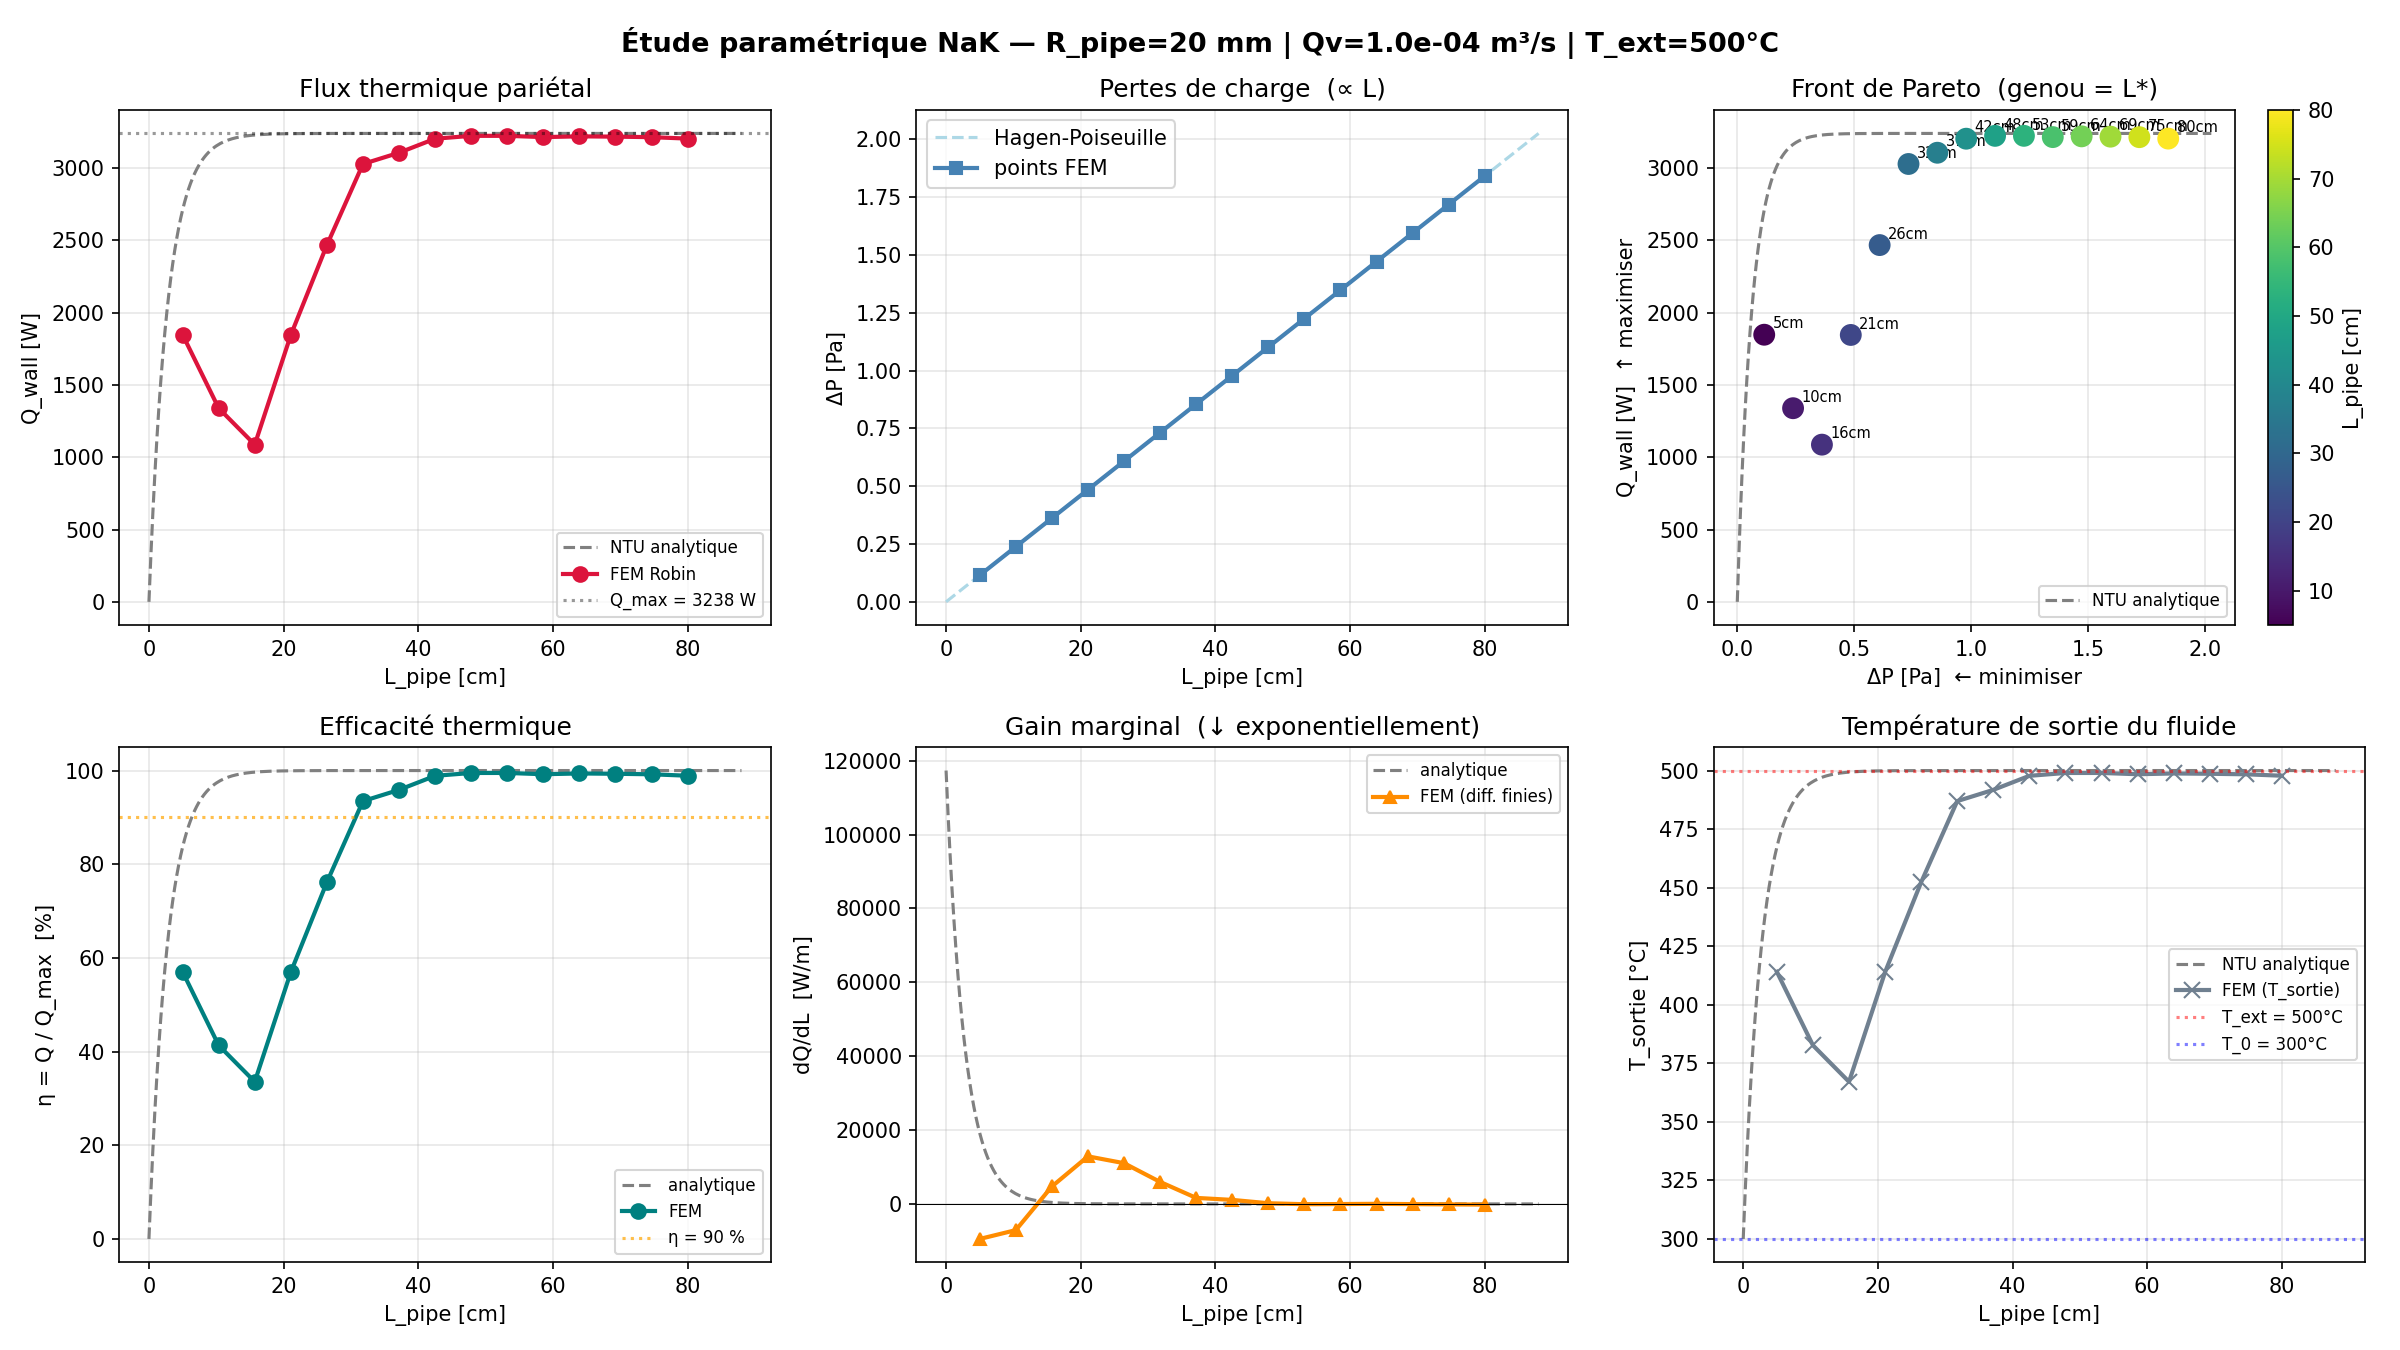
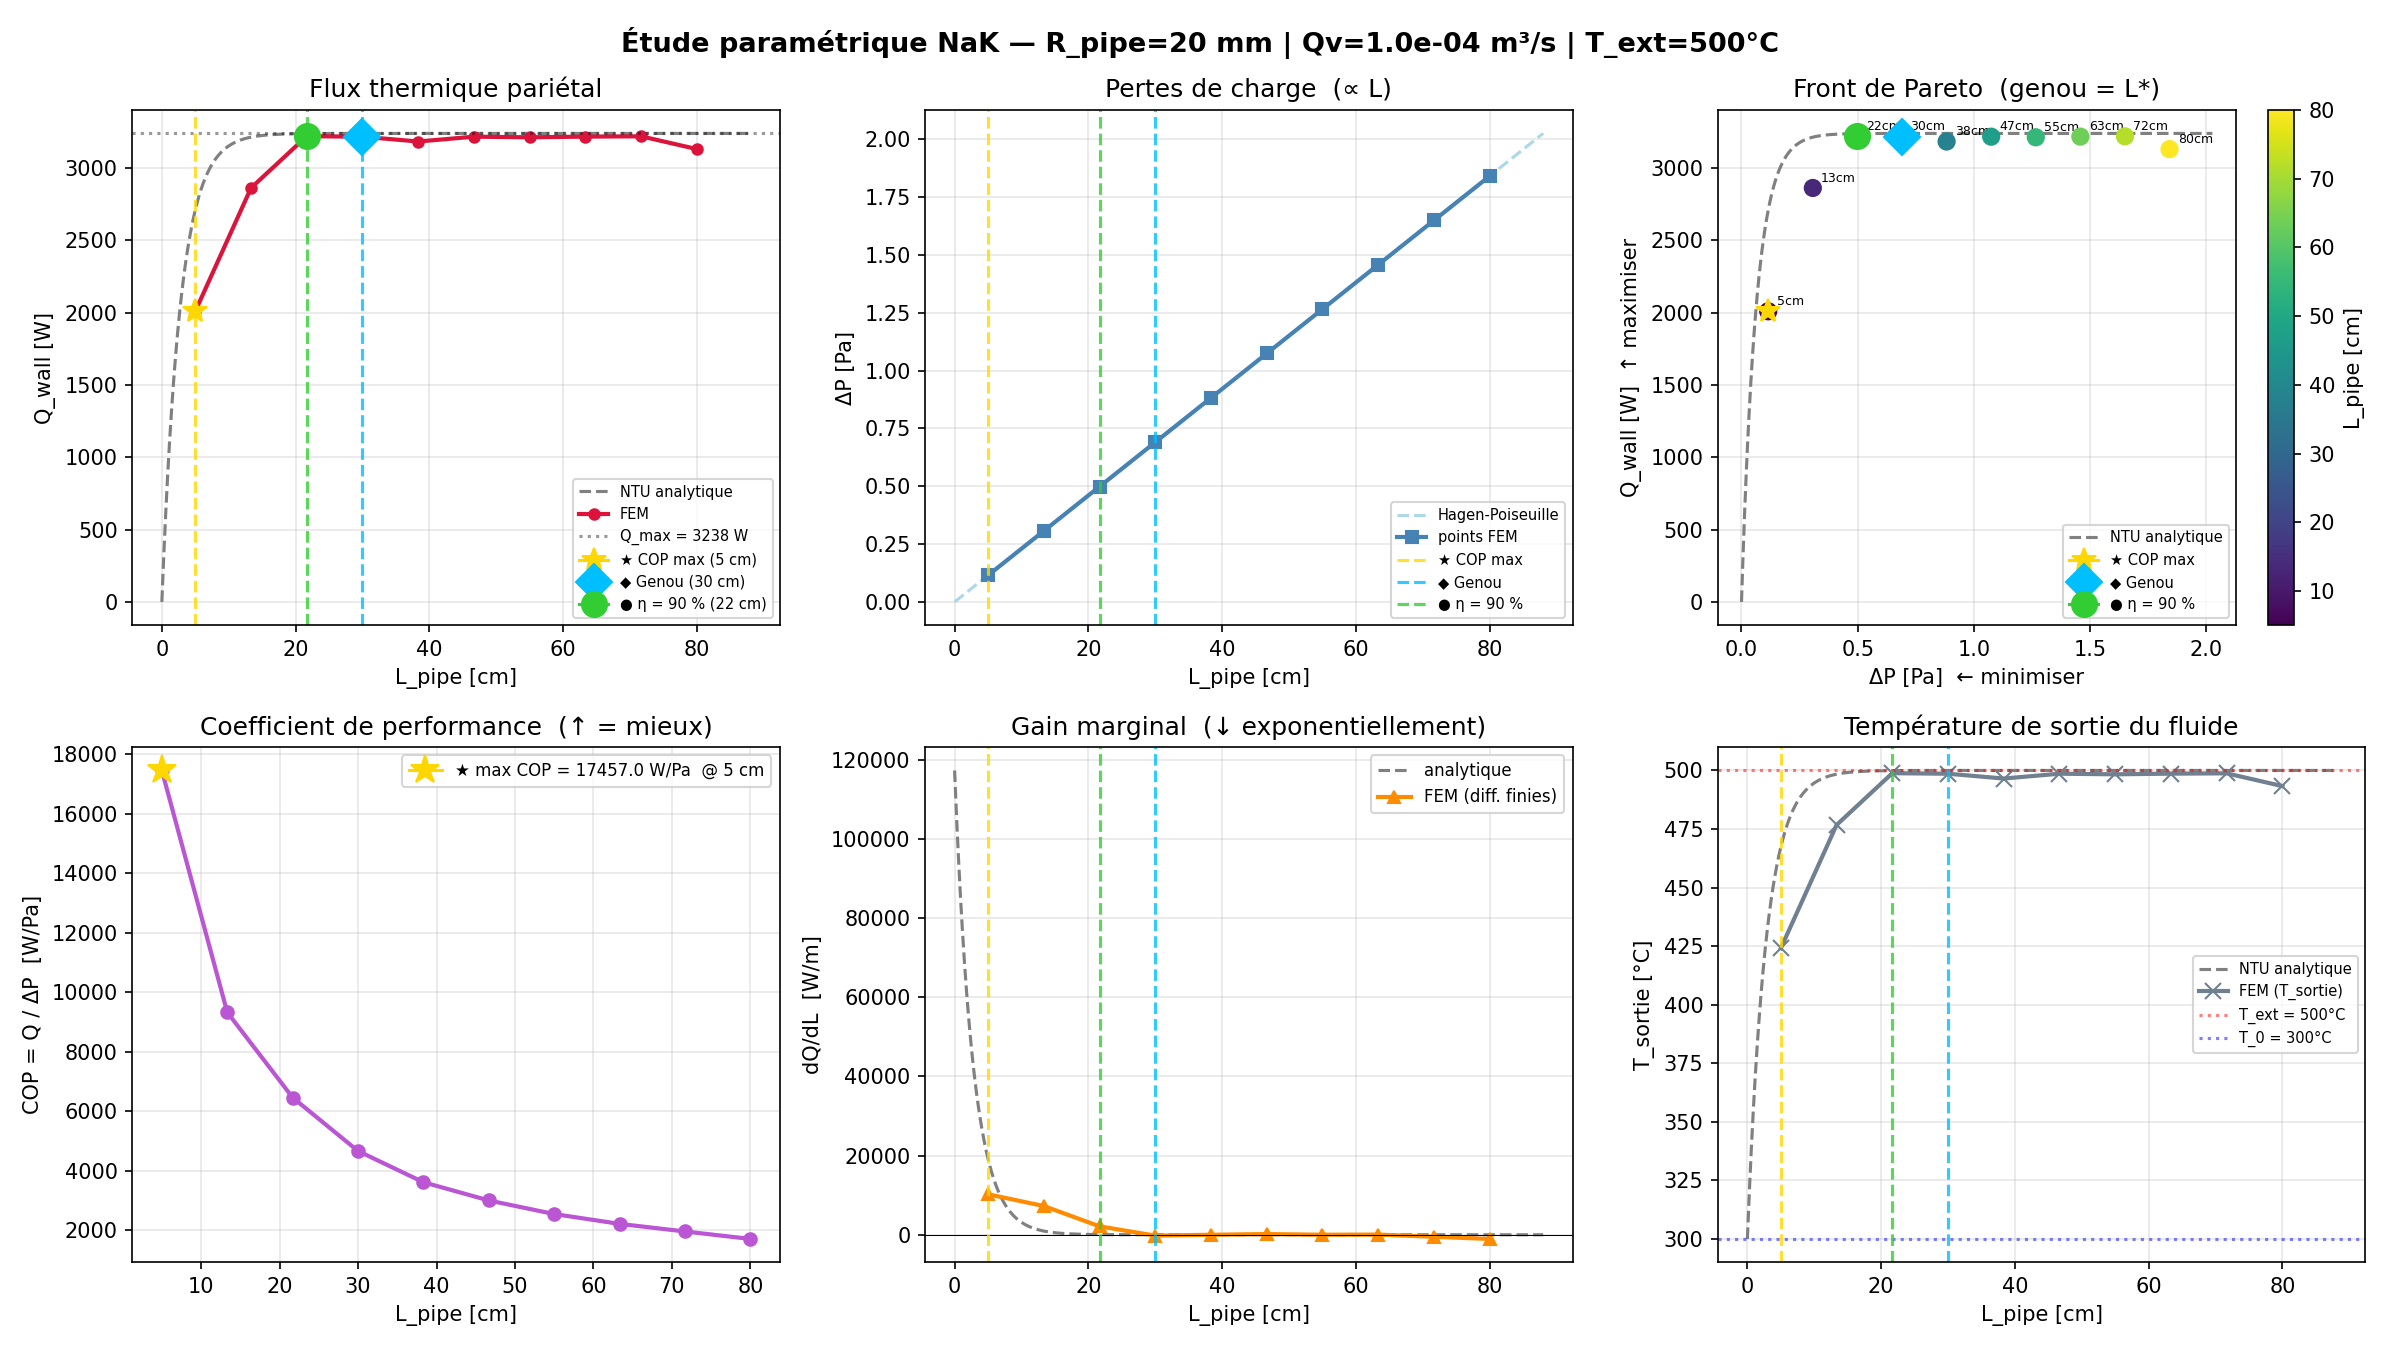
graphe etude param

diff --git a/main_diffusion_2d_reservoir.py b/main_diffusion_2d_reservoir.py
@@ -85,10 +85,6 @@ def compute_Q_wall_fem(Rb, Fb, U, wall_pipe_dofs):
         Q_wall = Fb[wall] - Rb[wall,:] @ U
                = ∫_Γ h·(T_ext − T_wall) dΓ   [W]
                  (positif = chaleur vers le fluide)
-
-    NOTE : l'ancienne formule Q = Rb·U − Fb donnait la mauvaise
-    orientation et surestimait Q pour les grands R. Cette version
-    est correcte et cohérente avec la formulation faible.
     """
     Rb_csr  = Rb.tocsr() if hasattr(Rb, 'tocsr') else Rb
     q_nodal = Fb[wall_pipe_dofs] - Rb_csr[wall_pipe_dofs, :].dot(U)
@@ -274,8 +270,6 @@ def parametric_study(L_pipe_values, args, T0, T_ext, Qv, dP_max=500.0):
     """
     Étude paramétrique sur L_pipe (longueur du tube), R_pipe fixé.
 
-    Pourquoi L_pipe est le bon paramètre
-    ----------------------------------------
     Q_wall = ṁ·cp·(T_ext − T0)·(1 − exp(−NTU))   avec  NTU = h·2πR·L / (ṁ·cp)
 
       - Pour L petit  : NTU ≪ 1 → Q ≈ h·A·(T_ext−T0)  croît quasi linéairement avec L
@@ -347,50 +341,103 @@ def parametric_study(L_pipe_values, args, T0, T_ext, Qv, dP_max=500.0):
     return results
 
 
+def find_optimal_L(L, Q, dP, Q_max, results):
+    """
+    Trouve L* selon trois critères complémentaires :
+
+    1. COP = Q / ΔP  [W/Pa]
+       Rapport chaleur transférée / coût de pompage.
+       Maximiser le COP donne le meilleur compromis énergétique.
+
+    2. Genou de Pareto (courbure maximale sur la courbe Q vs ΔP)
+       Le genou est le point où la courbe Q(ΔP) tourne le plus fort,
+       i.e. où le gain en Q par unité de ΔP supplémentaire chute le plus.
+       Méthode : on normalise Q et ΔP dans [0,1] puis on calcule la
+       courbure κ = |Q''| / (1 + Q'²)^(3/2) via différences finies.
+
+    3. Seuil d'efficacité η = 90 %
+       L minimal tel que Q ≥ 0.9 · Q_max.
+       Critère d'ingénierie simple : on accepte 10 % de perte thermique.
+
+    Retourne un dict avec les indices et valeurs de L pour chaque critère.
+    """
+    COP = Q / dP   # W/Pa
+
+    # --- Critère 1 : max COP ---
+    i_cop = int(np.argmax(COP))
+
+    # --- Critère 2 : genou de Pareto (courbure max sur Q vs ΔP normalisé) ---
+    # Normalisation dans [0,1]
+    dP_n = (dP - dP.min()) / (dP.max() - dP.min() + 1e-12)
+    Q_n  = (Q  - Q.min())  / (Q.max()  - Q.min()  + 1e-12)
+    # Différences finies pour dQ_n/ddP_n et d²Q_n/ddP_n²
+    if len(L) >= 3:
+        dQdP   = np.gradient(Q_n, dP_n)
+        d2QdP2 = np.gradient(dQdP, dP_n)
+        kappa  = np.abs(d2QdP2) / (1.0 + dQdP**2)**1.5
+        # Le genou est le point de courbure max (excluant les bords)
+        i_knee = int(np.argmax(kappa[1:-1])) + 1
+    else:
+        i_knee = i_cop   # fallback si pas assez de points
+
+    # --- Critère 3 : seuil η = 90 % ---
+    eta_target = 0.90
+    i_eta = None
+    for j, q in enumerate(Q):
+        if q >= eta_target * Q_max:
+            i_eta = j
+            break
+    if i_eta is None:
+        i_eta = int(np.argmax(Q))   # fallback : max Q si seuil jamais atteint
+
+    return dict(
+        i_cop  = i_cop,  L_cop  = L[i_cop],  Q_cop  = Q[i_cop],  dP_cop  = dP[i_cop],
+        i_knee = i_knee, L_knee = L[i_knee], Q_knee = Q[i_knee], dP_knee = dP[i_knee],
+        i_eta  = i_eta,  L_eta  = L[i_eta],  Q_eta  = Q[i_eta],  dP_eta  = dP[i_eta],
+        COP    = COP,
+    )
+
+
+
 def plot_parametric_results(results, T0, T_ext, args, Qv):
     """
-    Trace les graphes de l'étude paramétrique en L_pipe et identifie L*.
-
-    Affiche :
-      - Q_wall vs L_pipe  (FEM + courbe analytique NTU)
-      - ΔP vs L_pipe      (linéaire — Hagen-Poiseuille)
-      - Front de Pareto   Q_wall / ΔP  (genou = L*)
-      - Efficacité η = Q/Q_max vs L
-      - ΔQ/ΔL (gain marginal) vs L  → s'annule au genou
-      - T_wall_mean vs L
+    Trace les graphes de l'étude paramétrique en L_pipe.
+    Identifie L* selon trois critères : COP max, genou de Pareto, η = 90 %.
     """
     if not results:
         print("Aucun résultat à tracer.")
         return
 
     R_pipe = args.R_pipe
-    L  = np.array([r["L_pipe"]      for r in results])        # m
-    Q  = np.array([r["Q_wall"]      for r in results])         # W
-    dP = np.array([r["dP"]          for r in results])         # Pa
-    h  = np.array([r["h"]           for r in results])         # W/m²K
-    Tw = np.array([r["T_wall_mean"] for r in results]) - 273.15  # °C
-    Ts = np.array([r["T_sortie"]    for r in results]) - 273.15  # °C
+    L  = np.array([r["L_pipe"]      for r in results])
+    Q  = np.array([r["Q_wall"]      for r in results])
+    dP = np.array([r["dP"]          for r in results])
+    h  = np.array([r["h"]           for r in results])
+    Ts = np.array([r["T_sortie"]    for r in results]) - 273.15
 
     rho_r, cp_r, k_r, mu_r, nu_r, Pr_r = nak_properties(0.5 * (T0 + T_ext))
-    m_dot   = rho_r * Qv
-    Q_max   = m_dot * cp_r * (T_ext - T0)  # saturation thermique [W]
+    m_dot = rho_r * Qv
+    Q_max = m_dot * cp_r * (T_ext - T0)
 
-    # h évalué à T0 (entrée) — plus représentatif pour NTU car T augmente le long du tube
     h_ref, *_ = compute_h_robin_from_Qv(T0, R_pipe, Qv)
 
-    # Courbe analytique NTU : Q_an(L) = Q_max · (1 − exp(−NTU(L)))
-    L_an   = np.linspace(0, L.max() * 1.1, 300)
-    NTU_an = h_ref * 2 * np.pi * R_pipe * L_an / (m_dot * cp_r)
-    Q_an   = Q_max * (1.0 - np.exp(-NTU_an))
-    dP_an  = compute_dP_hagen(R_pipe, mu_r, L_an, Qv)
-
-    # NTU aux points FEM
+    L_an    = np.linspace(0, L.max() * 1.1, 300)
+    NTU_an  = h_ref * 2 * np.pi * R_pipe * L_an / (m_dot * cp_r)
+    Q_an    = Q_max * (1.0 - np.exp(-NTU_an))
+    dP_an   = compute_dP_hagen(R_pipe, mu_r, L_an, Qv)
     NTU_fem = h_ref * 2 * np.pi * R_pipe * L / (m_dot * cp_r)
+    dQdL    = np.gradient(Q, L)
 
-    # Gain marginal dQ/dL (différences finies)
-    dQdL = np.gradient(Q, L)
+    # --- Trouver les trois L* ---
+    opt = find_optimal_L(L, Q, dP, Q_max, results)
+    COP = opt["COP"]
 
-    i_best = int(np.argmax(Q))
+    # (mpl_marker, symbol pour texte/légende)
+    opt_styles = [
+        ("COP max",  opt["i_cop"],  opt["L_cop"],  "gold",        "*",  "★"),
+        ("Genou",    opt["i_knee"], opt["L_knee"], "deepskyblue", "D",  "◆"),
+        ("η = 90 %", opt["i_eta"],  opt["L_eta"],  "limegreen",   "o",  "●"),
+    ]
 
     fig, axes = plt.subplots(2, 3, figsize=(16, 9))
     fig.suptitle(
@@ -399,42 +446,51 @@ def plot_parametric_results(results, T0, T_ext, args, Qv):
         fontsize=13, fontweight='bold'
     )
 
-    # Q_wall vs L  (FEM + analytique NTU)
+    # Q_wall vs L
     ax = axes[0, 0]
     ax.plot(L_an*100, Q_an, '--', color='gray', lw=1.5, label='NTU analytique')
-    ax.plot(L*100, Q, 'o-', color='crimson', lw=2, ms=7, label='FEM Robin')
+    ax.plot(L*100, Q, 'o-', color='crimson', lw=2, ms=5, label='FEM')
     ax.axhline(Q_max, ls=':', color='black', alpha=0.4, label=f'Q_max = {Q_max:.0f} W')
+    for label, idx, L_opt, color, mpl_marker, sym in opt_styles:
+        ax.axvline(L_opt*100, ls='--', color=color, alpha=0.8, lw=1.5)
+        ax.plot(L_opt*100, Q[idx], marker=mpl_marker, color=color,
+                ms=12, zorder=6, label=f'{sym} {label} ({L_opt*100:.0f} cm)')
     ax.set_xlabel("L_pipe [cm]"); ax.set_ylabel("Q_wall [W]")
     ax.set_title("Flux thermique pariétal")
-    ax.legend(fontsize=8); ax.grid(True, alpha=0.3)
+    ax.legend(fontsize=7); ax.grid(True, alpha=0.3)
 
-    # ΔP vs L  (linéaire)
+    # ΔP vs L
     ax = axes[0, 1]
     ax.plot(L_an*100, dP_an, '--', color='lightblue', lw=1.5, label='Hagen-Poiseuille')
     ax.plot(L*100, dP, 's-', color='steelblue', lw=2, ms=6, label='points FEM')
+    for label, idx, L_opt, color, mpl_marker, sym in opt_styles:
+        ax.axvline(L_opt*100, ls='--', color=color, alpha=0.8, lw=1.5, label=f'{sym} {label}')
     ax.set_xlabel("L_pipe [cm]"); ax.set_ylabel("ΔP [Pa]")
     ax.set_title("Pertes de charge  (∝ L)")
-    ax.legend(); ax.grid(True, alpha=0.3)
+    ax.legend(fontsize=7); ax.grid(True, alpha=0.3)
 
-    # Front de Pareto : Q vs ΔP  — le genou est L*
+    # Front de Pareto : Q vs ΔP
     ax = axes[0, 2]
     ax.plot(dP_an, Q_an, '--', color='gray', lw=1.5, label='NTU analytique')
-    sc = ax.scatter(dP, Q, c=L*100, cmap='viridis', s=90, zorder=5)
+    sc = ax.scatter(dP, Q, c=L*100, cmap='viridis', s=60, zorder=4)
     plt.colorbar(sc, ax=ax, label='L_pipe [cm]')
     for j in range(len(L)):
         ax.annotate(f"{L[j]*100:.0f}cm", (dP[j], Q[j]),
-                    textcoords="offset points", xytext=(4, 3), fontsize=7)
+                    textcoords="offset points", xytext=(4, 3), fontsize=6)
+    for label, idx, L_opt, color, mpl_marker, sym in opt_styles:
+        ax.plot(dP[idx], Q[idx], marker=mpl_marker, color=color, ms=12, zorder=6,
+                label=f'{sym} {label}')
     ax.set_xlabel("ΔP [Pa]  ← minimiser"); ax.set_ylabel("Q_wall [W]  ↑ maximiser")
     ax.set_title("Front de Pareto  (genou = L*)")
-    ax.legend(fontsize=8); ax.grid(True, alpha=0.3)
+    ax.legend(fontsize=7); ax.grid(True, alpha=0.3)
 
-    # Efficacité η = Q / Q_max vs L
+    # COP = Q / ΔP vs L
     ax = axes[1, 0]
-    ax.plot(L_an*100, (1-np.exp(-NTU_an))*100, '--', color='gray', lw=1.5, label='analytique')
-    ax.plot(L*100, Q/Q_max*100, 'o-', color='teal', lw=2, ms=7, label='FEM')
-    ax.axhline(90, ls=':', color='orange', alpha=0.7, label='η = 90 %')
-    ax.set_xlabel("L_pipe [cm]"); ax.set_ylabel("η = Q / Q_max  [%]")
-    ax.set_title("Efficacité thermique")
+    ax.plot(L*100, COP, 'o-', color='mediumorchid', lw=2, ms=6)
+    ax.plot(opt["L_cop"]*100, COP[opt["i_cop"]], marker='*', color='gold', ms=14, zorder=6,
+            label=f'★ max COP = {COP[opt["i_cop"]]:.1f} W/Pa  @ {opt["L_cop"]*100:.0f} cm')
+    ax.set_xlabel("L_pipe [cm]"); ax.set_ylabel("COP = Q / ΔP  [W/Pa]")
+    ax.set_title("Coefficient de performance  (↑ = mieux)")
     ax.legend(fontsize=8); ax.grid(True, alpha=0.3)
 
     # Gain marginal dQ/dL
@@ -443,13 +499,14 @@ def plot_parametric_results(results, T0, T_ext, args, Qv):
     ax.plot(L_an*100, dQdL_an, '--', color='gray', lw=1.5, label='analytique')
     ax.plot(L*100, dQdL, '^-', color='darkorange', lw=2, ms=6, label='FEM (diff. finies)')
     ax.axhline(0, color='black', lw=0.5)
+    for label, idx, L_opt, color, mpl_marker, sym in opt_styles:
+        ax.axvline(L_opt*100, ls='--', color=color, alpha=0.8, lw=1.5)
     ax.set_xlabel("L_pipe [cm]"); ax.set_ylabel("dQ/dL  [W/m]")
     ax.set_title("Gain marginal  (↓ exponentiellement)")
     ax.legend(fontsize=8); ax.grid(True, alpha=0.3)
 
-    # T_sortie vs L  (température de sortie du fluide)
+    # T_sortie vs L
     ax = axes[1, 2]
-    # Analytique : T_sortie = T_ext - (T_ext-T0)*exp(-NTU)
     T_sortie_an = (T_ext - 273.15) - (T_ext - T0) * np.exp(-NTU_an)
     ax.plot(L_an*100, T_sortie_an, '--', color='gray', lw=1.5, label='NTU analytique')
     ax.plot(L*100, Ts, 'x-', color='slategray', lw=2, ms=8, label='FEM (T_sortie)')
@@ -457,36 +514,46 @@ def plot_parametric_results(results, T0, T_ext, args, Qv):
                label=f'T_ext = {T_ext-273.15:.0f}°C')
     ax.axhline(T0 - 273.15, ls=':', color='blue', alpha=0.5,
                label=f'T_0 = {T0-273.15:.0f}°C')
+    for label, idx, L_opt, color, mpl_marker, sym in opt_styles:
+        ax.axvline(L_opt*100, ls='--', color=color, alpha=0.8, lw=1.5)
     ax.set_xlabel("L_pipe [cm]"); ax.set_ylabel("T_sortie [°C]")
     ax.set_title("Température de sortie du fluide")
-    ax.legend(fontsize=8); ax.grid(True, alpha=0.3)
+    ax.legend(fontsize=7); ax.grid(True, alpha=0.3)
 
     plt.tight_layout()
     plt.savefig("figures/parametric_study.png", dpi=150)
     print("Figure sauvegardée : figures/parametric_study.png")
     plt.show()
 
-    # Tableau récapitulatif
-    print("\n" + "=" * 72)
+    # --- Tableau récapitulatif ---
+    print("\n" + "=" * 78)
     print(f"  {'L[cm]':>7} {'Q[W]':>9} {'ΔP[Pa]':>9} "
-          f"{'η[%]':>7} {'NTU':>7} {'h[W/m²K]':>10}")
-    print("  " + "-" * 58)
+          f"{'η[%]':>7} {'NTU':>7} {'COP[W/Pa]':>11}")
+    print("  " + "-" * 62)
     for j in range(len(L)):
-        marker = "  ← L*" if j == i_best else ""
+        markers = []
+        if j == opt["i_cop"]:  markers.append("★ COP")
+        if j == opt["i_knee"]: markers.append("◆ genou")
+        if j == opt["i_eta"]:  markers.append("● η90%")
+        tag = "  " + " | ".join(markers) if markers else ""
         eta = Q[j] / Q_max * 100
         print(f"  {L[j]*100:>7.1f}  {Q[j]:>9.2f}  {dP[j]:>9.3f}  "
-              f"{eta:>7.1f}  {NTU_fem[j]:>7.3f}  {h[j]:>9.0f}{marker}")
-    print("=" * 72)
+              f"{eta:>7.1f}  {NTU_fem[j]:>7.3f}  {COP[j]:>11.1f}{tag}")
+    print("=" * 78)
 
-    best = results[i_best]
-    print(f"\n  L optimal : {best['L_pipe']*100:.1f} cm")
-    print(f"  Q_wall    = {best['Q_wall']:.2f} W  (η = {best['Q_wall']/Q_max*100:.1f} %)")
-    print(f"  ΔP        = {best['dP']:.3f} Pa")
-    print(f"  h         = {best['h']:.0f} W/m²K")
+    print(f"\n  Q_max (saturation thermique) = {Q_max:.0f} W")
+    print(f"\n  {'Critère':<18} {'L* [cm]':>9} {'Q [W]':>9} {'ΔP [Pa]':>9} {'η [%]':>7} {'COP':>8}")
+    print("  " + "-" * 62)
+    for label, idx, L_opt, color, mpl_marker, sym in opt_styles:
+        eta = Q[idx] / Q_max * 100
+        print(f"  {sym} {label:<16} {L_opt*100:>9.1f} {Q[idx]:>9.2f} "
+              f"{dP[idx]:>9.3f} {eta:>7.1f} {COP[idx]:>8.1f}")
     print(f"\n  Lecture physique :")
-    print(f"    NTU = h·2πRL / (ṁ·cp) → Q sature exponentiellement avec L")
-    print(f"    Q_max = ṁ·cp·(T_ext−T0) = {Q_max:.0f} W  (saturation thermique)")
-    print(f"    Au-delà de L* ≈ {best['L_pipe']*100:.0f} cm, le gain marginal dQ/dL devient négligeable")
+    print(f"    ★ COP max  → meilleur rapport Q/ΔP  (critère énergétique)")
+    print(f"    ◆ Genou    → courbure max du front de Pareto  (compromis géométrique)")
+    print(f"    ● η = 90 % → L minimal pour 90 % de saturation  (critère d'ingénierie)")
+
+
 
 
 # ============================================================
@@ -845,4 +912,4 @@ if __name__ == "__main__":
 
 
 # pour run étude paramétrique uniquement : 
-# python main_diffusion_2d_reservoir.py --study --R_pipe 0.02 --n_L 15 --L_min 0.05 --L_max 0.80
+# python main_diffusion_2d_reservoir.py --study --R_pipe 0.02 --n_L 10 --L_min 0.05 --L_max 0.80
